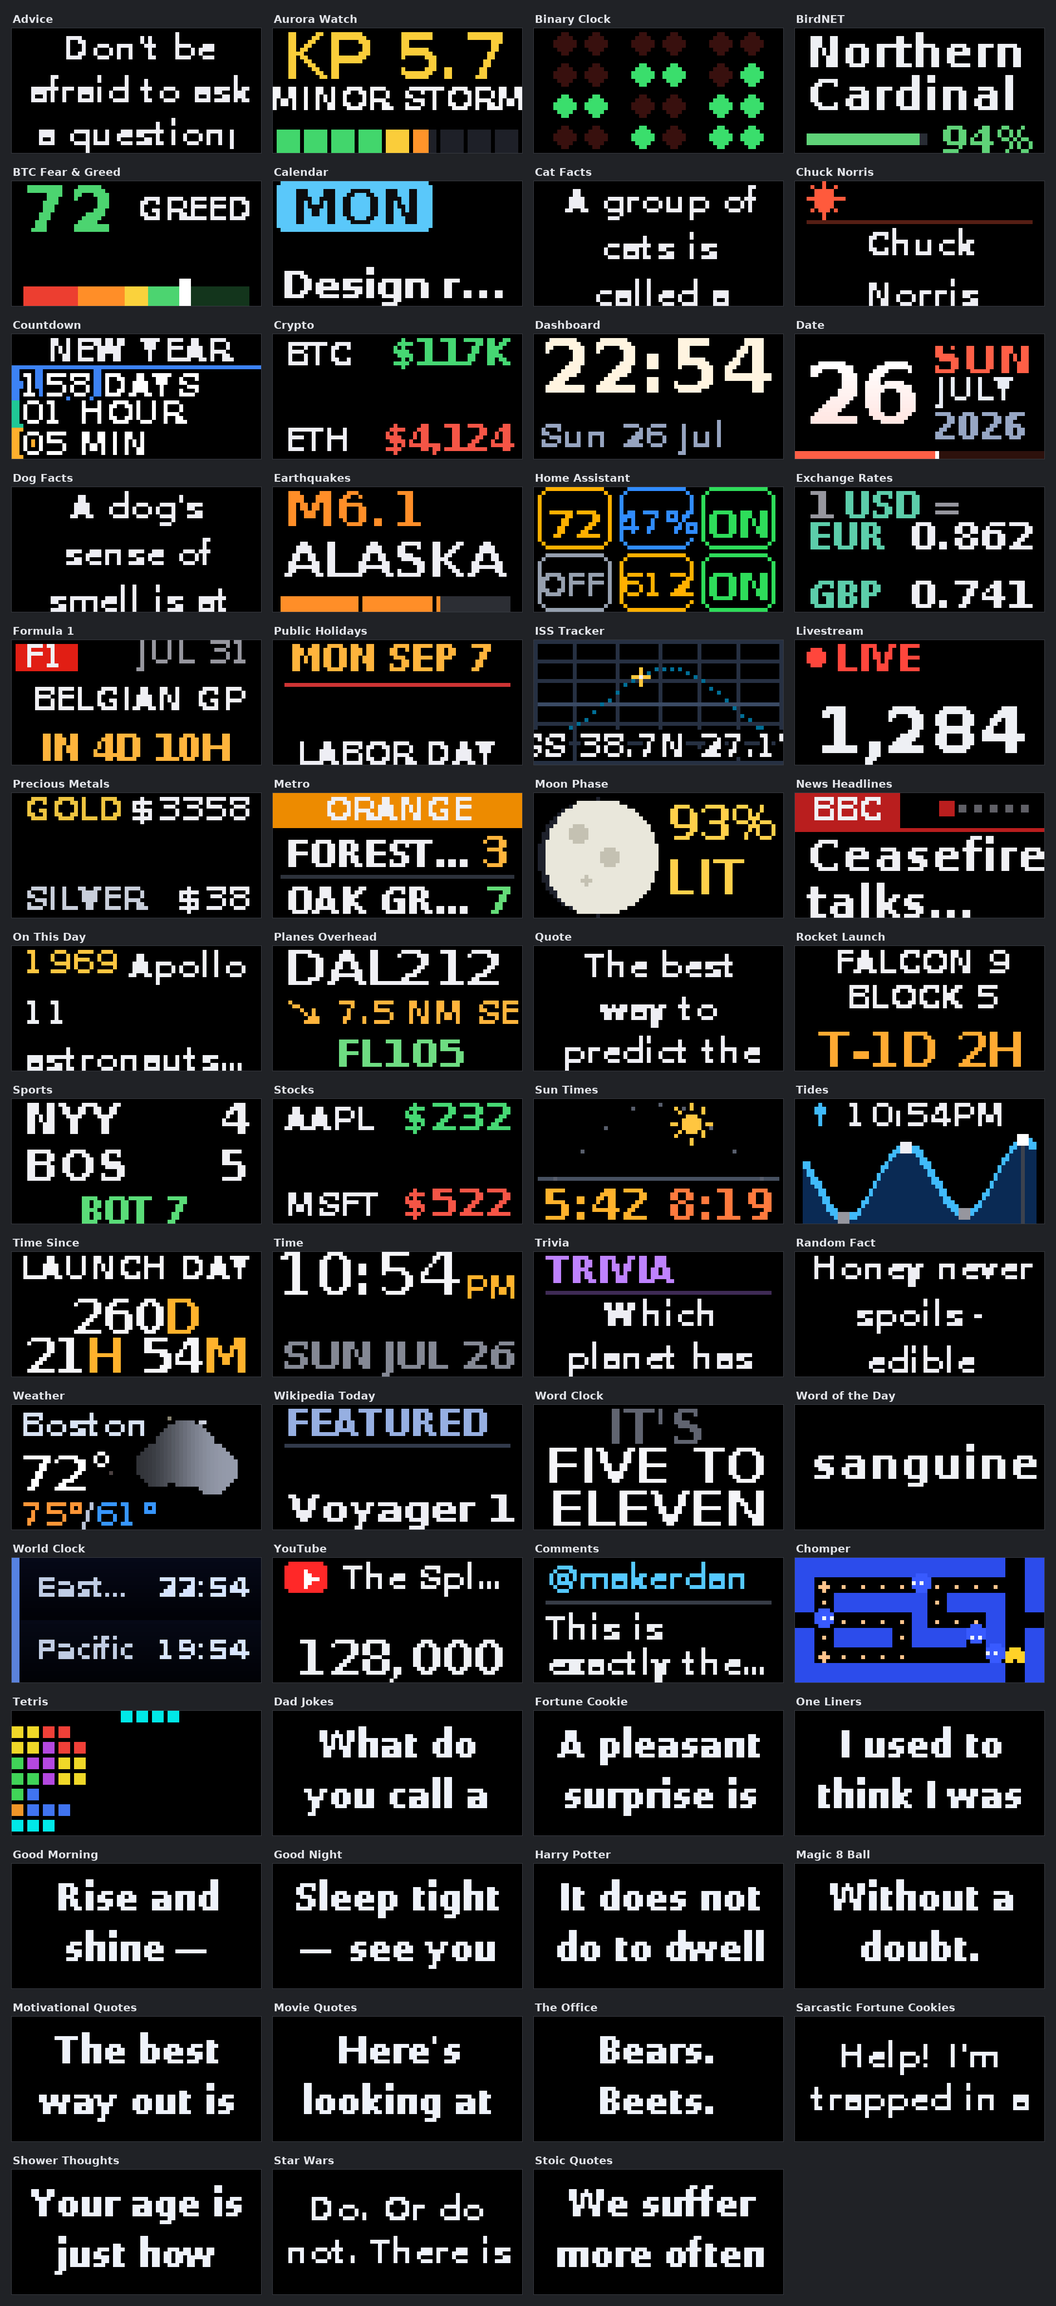
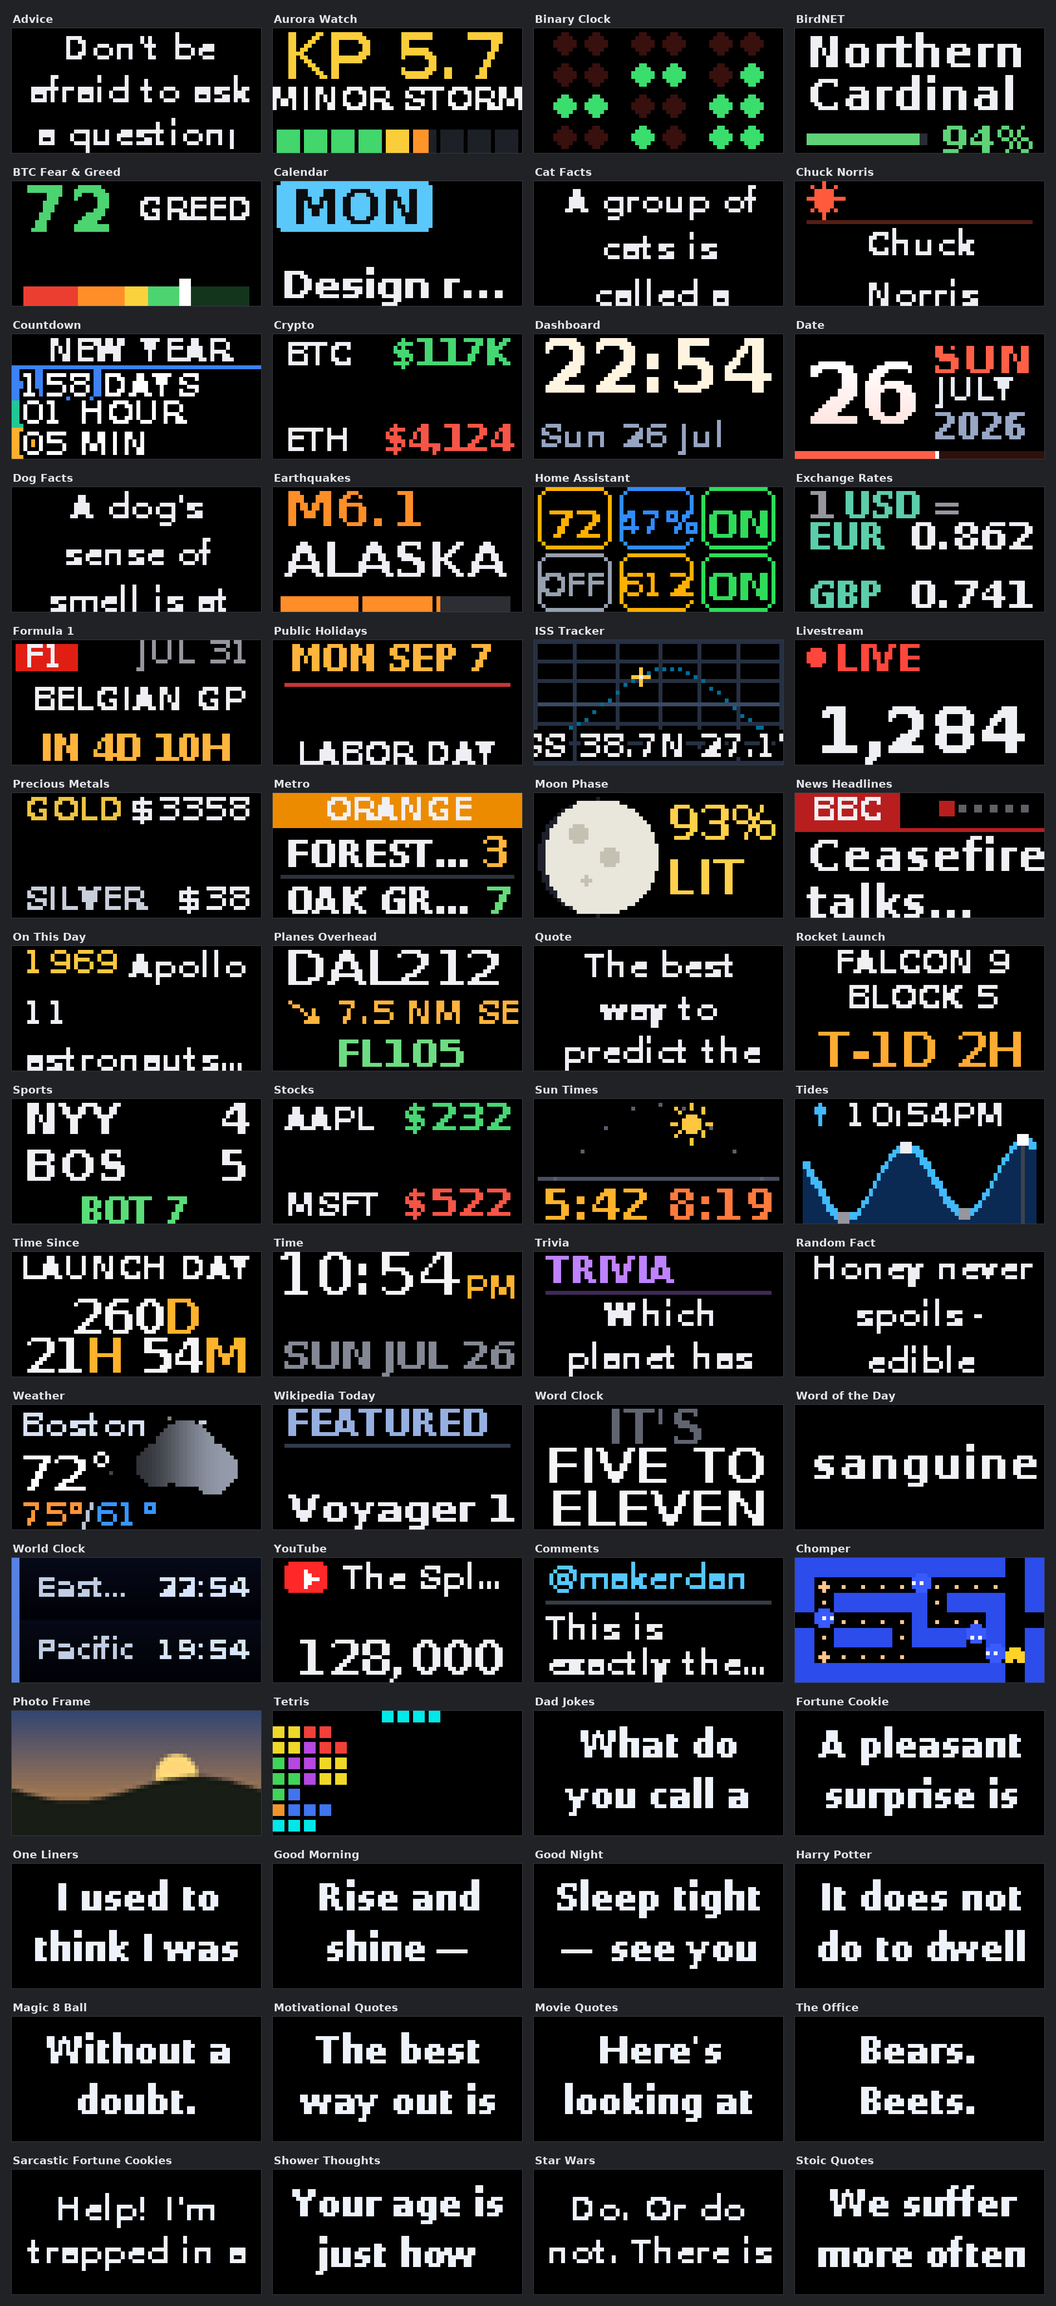
2.10.7-beta.5 — firmware 3.10/3.11 pass: Photo Frame on the microSD, new effects
- device/canvas: the fw-3.10 'sd' feature token -> caps.can_sd; canvas.sd_list
  (one directory level, [] without a card) and canvas.sd_get (raw file bytes),
  thin capability-gated reads through the pooled gateway client
- new app sd-photos (Photo Frame): rotates the card's images on the panel —
  EXIF-rotated, cover (center-crop) or letterbox onto a dim blurred echo of the
  photo, optional shuffle, LRU-decoded, listing refreshed ~per 2 min so new
  drops join live; friendly cards for no-card/no-photos/undecodable. Matrix-
  only, frame-push (streams on 3.2+ walls)
- plugin_effects: icons for the 3.10 effects (Oscilloscope, Beat Ripples,
  Maze) — names + knobs already arrive via effectDefs
- depth-4 PSRAM framebuffer (3.11): nothing to gate — smoother gradients for
  free; 3.9 transform/layers/macros deliberately skipped (JSON-only, would
  knock apps off the binary stream)
- harness: Cap serves two synthetic sample photos so the gallery shows the
  slideshow; tests: test_sd_photos.py (8 — token parse, gated helpers,
  rotation+cache, letterbox backdrop, hint cards, catalog); i18n labels
  translated (fr/de/es). Suite 4526 passed.

Changed region(s): [[0.0, 0.7142, 0.4636, 0.9937], [0.7417, 0.7452, 0.9889, 1.0], [0.5254, 0.7452, 0.7417, 0.9937]]

diff --git a/backend/tests/test_sd_photos.py b/backend/tests/test_sd_photos.py
@@ -1,0 +1,139 @@
+"""The microSD surface (fw 3.10 ``sd`` feature) and the Photo Frame app built on it.
+
+``canvas.sd_list``/``sd_get`` are thin, capability-gated reads of the card; the app
+turns them into a slideshow — advance per dwell, LRU-decode, cover/letterbox layout,
+and friendly cards when there is no card / no photos.
+"""
+
+import io
+
+from conftest import canvas_surface, load_app
+from test_canvas_ops35 import OPS35
+from app import device
+
+
+def _jpeg(w=40, h=30, color=(200, 120, 40)):
+    from PIL import Image
+    buf = io.BytesIO()
+    Image.new("RGB", (w, h), color).save(buf, "JPEG")
+    return buf.getvalue()
+
+
+def _cv(sd=True):
+    return canvas_surface("http://gw", 128, 64, ("rgb888",), (), ops=OPS35, sd=sd)
+
+
+def test_sd_capability_parses_from_the_feature_token():
+    doc = {"features": ["canvas", "sd"], "charset": {"common": "A"},
+           "canvas": {"width": 64, "height": 32}}
+    assert device.from_capabilities(doc).can_sd
+    doc["features"] = ["canvas"]                       # token absent = no card mounted
+    assert not device.from_capabilities(doc).can_sd
+
+
+def test_sd_helpers_are_gated_and_wrap_the_rest_api(monkeypatch):
+    import app.gateway as gateway
+
+    calls = []
+
+    class _R:
+        status_code = 200
+        content = b"bytes!"
+
+        def json(self):
+            return [{"name": "a.jpg", "dir": False, "size": 3}]
+
+    monkeypatch.setattr(gateway, "_request",
+                        lambda m, u, p, **kw: (calls.append((m, p, kw.get("params"))) or _R()))
+    cv = _cv(sd=True)
+    assert cv.sd_list("/photos") == [{"name": "a.jpg", "dir": False, "size": 3}]
+    assert cv.sd_get("/photos/a.jpg") == b"bytes!"
+    assert calls == [("GET", "/api/sd/list", {"path": "/photos"}),
+                     ("GET", "/api/sd/get", {"path": "/photos/a.jpg"})]
+    # without the card the helpers answer empty without touching the wire
+    calls.clear()
+    off = _cv(sd=False)
+    assert off.sd_list("/") == [] and off.sd_get("/x") is None and not calls
+
+
+class _Frames:
+    """Wrap a surface: capture frame() images instead of sending them."""
+
+    def __init__(self, cv):
+        self._cv = cv
+        self.frames = []
+
+    def __getattr__(self, name):
+        return getattr(self._cv, name)
+
+    def frame(self, img):
+        self.frames.append(img)
+        return True
+
+
+def _sd_stub(cv, files):
+    cv.sd_list = lambda path="/": ([{"name": n, "dir": False, "size": len(b)}
+                                    for n, b in files.items()]
+                                   if path.rstrip("/") == "/photos" else [])
+    cv.sd_get = lambda path: files.get(path.rsplit("/", 1)[-1])
+    return cv
+
+
+def test_photo_frame_rotates_and_caches(monkeypatch):
+    app = load_app("sd-photos")
+    files = {"a.jpg": _jpeg(color=(200, 40, 40)), "b.jpg": _jpeg(color=(40, 200, 40))}
+    gets = []
+    cv = _Frames(_sd_stub(_cv(), files))
+    real_get = cv.sd_get
+    cv.sd_get = lambda p: (gets.append(p) or real_get(p))
+
+    hold = app.fetch_matrix({"dwell": "5"}, cv)
+    assert hold == 5 and len(cv.frames) == 1
+    assert cv.frames[0].size == (128, 64)              # cover: panel-sized
+    app.fetch_matrix({"dwell": "5"}, cv)               # advances to the other photo
+    app.fetch_matrix({"dwell": "5"}, cv)               # wraps — cache hit, no re-download
+    assert [p.rsplit("/", 1)[-1] for p in gets] == ["a.jpg", "b.jpg"]
+
+
+def test_photo_frame_letterboxes_a_portrait_onto_a_backdrop():
+    app = load_app("sd-photos")
+    files = {"tall.jpg": _jpeg(w=20, h=60, color=(250, 250, 250))}
+    cv = _Frames(_sd_stub(_cv(), files))
+    app.fetch_matrix({"fit": "contain"}, cv)
+    img = cv.frames[0]
+    assert img.size == (128, 64)
+    # the letterboxed sides carry the dim backdrop, not pure black bars
+    left = img.getpixel((2, 32))
+    center = img.getpixel((64, 32))
+    assert sum(center) > 500                           # the photo itself is bright
+    assert 0 < sum(left) < sum(center)                 # the echo is there, but dim
+
+
+def test_photo_frame_without_a_card_hints_instead_of_failing():
+    app = load_app("sd-photos")
+    cv = _Frames(_cv(sd=False))
+    hold = app.fetch_matrix({}, cv)
+    assert hold == 30 and len(cv.frames) == 1          # the hint card, on a slow tick
+
+
+def test_photo_frame_with_an_empty_folder_hints():
+    app = load_app("sd-photos")
+    cv = _Frames(_sd_stub(_cv(), {}))
+    cv.sd_list = lambda path="/": []                   # card mounted, nothing on it
+    hold = app.fetch_matrix({}, cv)
+    assert hold == 30 and len(cv.frames) == 1
+
+
+def test_photo_frame_skips_an_undecodable_file():
+    app = load_app("sd-photos")
+    files = {"broken.jpg": b"not a jpeg", "ok.jpg": _jpeg()}
+    cv = _Frames(_sd_stub(_cv(), files))
+    hold = app.fetch_matrix({"dwell": "7"}, cv)
+    assert hold == 7 and cv.frames[0].size == (128, 64)   # landed on the good one
+
+
+def test_photo_frame_is_matrix_only_in_the_catalog():
+    from conftest import make_runtime
+    rt = make_runtime(installed=["sd-photos"])
+    card = next(a for a in rt.app_list() if a["id"] == "sd-photos")
+    assert card["surfaces"] == ["matrix"]

diff --git a/apps/sd-photos/app.py b/apps/sd-photos/app.py
@@ -1,0 +1,99 @@
+"""Photo Frame — a slideshow of the microSD card's photos on the Matrix panel.
+
+The first app built on the gateway's fw-3.10 microSD support: the gateway's own Files
+tab manages the card; this gives it a *display* use. Each dwell the app advances to the
+next image in the configured folder (``canvas.sd_list``), pulls its bytes off the card
+(``canvas.sd_get``), and frame-pushes it — EXIF-rotated, resized to fill (center-crop)
+or letterbox onto a dim blurred backdrop. Decoded frames are LRU-cached so a small
+carousel re-downloads nothing; the folder listing refreshes about once a minute so
+newly dropped photos join the rotation without a restart. Without a card (or with an
+empty folder) it shows a friendly hint card instead. Matrix-only — flaps can't show a
+photo.
+"""
+
+import io
+import random
+
+_EXTS = ('.jpg', '.jpeg', '.png', '.gif', '.bmp', '.webp')
+_LIST_TTL = 12          # frames between folder re-lists (~2 min at the 10 s default dwell)
+_CACHE_MAX = 8          # decoded frames kept, LRU
+
+
+def _images_in(canvas, folder):
+    """The image files in ``folder`` (falling back to the card root), sorted by name."""
+    for path in (folder, '/'):
+        rows = canvas.sd_list(path)
+        names = sorted(str(r.get('name', '')) for r in rows
+                       if not r.get('dir') and str(r.get('name', '')).lower().endswith(_EXTS))
+        if names:
+            base = path.rstrip('/')
+            return [f"{base}/{n}" for n in names]
+        if path == folder and any(True for _ in rows):
+            return []                          # the folder exists but holds no images
+    return []
+
+
+def _render(canvas, raw, fit):
+    """Decode + lay out one photo as a panel-sized PIL image (None if undecodable)."""
+    from PIL import Image, ImageFilter, ImageOps
+    W, H = canvas.width, canvas.height
+    try:
+        img = Image.open(io.BytesIO(raw))
+        img = ImageOps.exif_transpose(img).convert('RGB')   # phones store rotation in EXIF
+    except Exception:
+        return None
+    if fit == 'contain':
+        # Letterbox on a dim, blurred stretch of the photo itself — black bars read as
+        # dead panel; a soft echo of the image reads as a frame.
+        back = img.resize((W, H)).filter(ImageFilter.GaussianBlur(6)).point(lambda v: v // 3)
+        fg = ImageOps.contain(img, (W, H))
+        back.paste(fg, ((W - fg.width) // 2, (H - fg.height) // 2))
+        return back
+    return ImageOps.fit(img, (W, H))           # cover: fill the panel, center-cropped
+
+
+def fetch_matrix(settings, canvas):
+    dwell = canvas.num(settings, 'dwell', 10, 3, 300)
+    if not getattr(canvas, 'can_sd', False):
+        canvas.frame(canvas.message('PHOTO FRAME', 'No microSD card on this wall'))
+        return 30
+    folder = '/' + str(settings.get('folder', '/photos') or '/photos').strip().strip('/')
+    fit = str(settings.get('fit', 'cover') or 'cover').strip().lower()
+    shuffle = str(settings.get('shuffle', 'no')).strip().lower() in ('1', 'true', 'yes', 'on')
+
+    st = getattr(fetch_matrix, '_state', None)
+    if st is None or st.get('sig') != (canvas.width, canvas.height, folder, shuffle):
+        st = {'sig': (canvas.width, canvas.height, folder, shuffle),
+              'paths': [], 'age': _LIST_TTL, 'i': -1, 'cache': {}}
+        setattr(fetch_matrix, '_state', st)
+
+    st['age'] += 1
+    if st['age'] >= _LIST_TTL:                 # refresh the listing; keep our place on no change
+        st['age'] = 0
+        paths = _images_in(canvas, folder)
+        if shuffle:
+            random.Random(len(paths) * 1009 + sum(map(len, paths))).shuffle(paths)
+        if paths != st['paths']:
+            st['paths'], st['i'] = paths, -1
+    if not st['paths']:
+        canvas.frame(canvas.message('PHOTO FRAME', f'No photos in {folder} — use the'
+                                                   ' gateway Files tab to add some'))
+        return 30
+
+    # Advance; skip anything that vanished or won't decode (up to one full lap).
+    for _ in range(len(st['paths'])):
+        st['i'] = (st['i'] + 1) % len(st['paths'])
+        path = st['paths'][st['i']]
+        key = (path, fit)
+        img = st['cache'].pop(key, None)       # pop+reinsert = LRU touch
+        if img is None:
+            raw = canvas.sd_get(path)
+            img = _render(canvas, raw, fit) if raw else None
+        if img is not None:
+            st['cache'][key] = img
+            while len(st['cache']) > _CACHE_MAX:
+                st['cache'].pop(next(iter(st['cache'])))
+            canvas.frame(img)
+            return dwell
+    canvas.frame(canvas.message('PHOTO FRAME', 'No readable photos on the card'))
+    return 30

diff --git a/backend/app/canvas.py b/backend/app/canvas.py
@@ -808,6 +808,31 @@ def play_sound(url: str, notes=None, freq=None, ms: int = 120, vol: int = 70) ->
     return True
 
 
+def sd_list(url: str, path: str = "/", timeout: float = 8.0) -> list:
+    """One directory level of the wall's microSD card (fw 3.10 ``sd`` feature):
+    ``[{"name", "dir", "size"}, ...]``, or ``[]`` on any failure (no card, bad path,
+    unreachable). Read-only and safe to poll gently — the card is the gateway's."""
+    try:
+        r = gateway._request("GET", url, "/api/sd/list", params={"path": path or "/"},
+                             timeout=timeout)
+        return r.json() if r.status_code == 200 else []
+    except Exception as e:
+        log.debug("canvas sd_list(%s) failed: %s", path, e)
+        return []
+
+
+def sd_get(url: str, path: str, timeout: float = 20.0) -> bytes | None:
+    """A file's raw bytes off the wall's microSD card, or None. The generous timeout is
+    for multi-MB photos over the ESP32's HTTP server."""
+    try:
+        r = gateway._request("GET", url, "/api/sd/get", params={"path": path},
+                             timeout=timeout)
+        return r.content if r.status_code == 200 else None
+    except Exception as e:
+        log.debug("canvas sd_get(%s) failed: %s", path, e)
+        return None
+
+
 def post_ops_bin(url: str, data: bytes, timeout: float = 8.0) -> bool:
     """Apply a binary op batch (POST /api/canvas/opsb, fw 3.5)."""
     try:
@@ -871,6 +896,7 @@ class CanvasSurface(paneltext.PanelText):
         self.can_text_styles = "textbox" in self.op_names
         self.can_ops_bin = int(caps.canvas_ops_bin or 0) >= 1
         self.can_composite = bool(caps.canvas_composite)   # fw 3.8+: alpha, blend modes, AA
+        self.can_sd = bool(caps.can_sd)                    # fw 3.10+: a microSD card is mounted
         # 1.19 / 1.25 / 2.1. `can_ops` is "any draw ops at all" (the vocabulary itself is
         # op_names above, consulted via has_op()). The 2.1 endpoint families aren't flagged
         # one by one, so they all gate on the firmware version (caps.canvas_2_1).
@@ -1055,6 +1081,14 @@ class CanvasSurface(paneltext.PanelText):
     def has_op(self, name) -> bool:
         """Whether this wall's ops vocabulary includes ``name`` (capabilities canvas.ops)."""
         return str(name) in self.op_names
+
+    def sd_list(self, path: str = "/") -> list:
+        """This wall's microSD directory listing (``[]`` without a card) — see module sd_list."""
+        return sd_list(self.url, path) if self.can_sd else []
+
+    def sd_get(self, path: str) -> bytes | None:
+        """A file's bytes off this wall's microSD card (None without a card)."""
+        return sd_get(self.url, path) if self.can_sd else None
 
     @staticmethod
     def num(settings, key, default, lo=None, hi=None):

diff --git a/tools/screenshot-harness.py b/tools/screenshot-harness.py
@@ -47,6 +47,7 @@ APP_IDS = [
     'useless-fact', 'weather', 'wiki-today', 'word-clock', 'word-of-the-day',
     'world_clock', 'youtube', 'yt_comments',
     'canvas-chomper',                    # matrix-only: the ops-surface arcade
+    'sd-photos',                         # matrix-only: the microSD slideshow
 ]
 
 # Channels/quizzes render generically on the panel (big text + themed art) via
@@ -135,6 +136,43 @@ class Cap:
     _OPS35 = ('clear', 'pixel', 'hline', 'vline', 'line', 'rect', 'circle', 'ellipse',
               'triangle', 'roundrect', 'gradient', 'polyline', 'poly', 'arc', 'clip',
               'origin', 'text', 'textbox', 'image', 'sprite', 'scroll', 'show')
+
+
+    # -- microSD (fw 3.10): a fake card with two synthetic sample photos ------
+    can_sd = True
+    _SD_PHOTOS = {}
+
+    @classmethod
+    def _sd_photo(cls, name):
+        if name not in cls._SD_PHOTOS:
+            import io as _io
+            import math as _math
+            w, h = 320, 200
+            img = Image.new('RGB', (w, h))
+            px = img.load()
+            warm = 'sunset' in name
+            for y in range(h):
+                t = y / h
+                sky = ((int(30 + 200 * t), int(60 + 90 * t), int(120 - 60 * t)) if warm
+                       else (int(20 + 60 * t), int(90 + 120 * t), int(150 + 80 * t)))
+                for x in range(w):
+                    px[x, y] = sky
+            d = ImageDraw.Draw(img)
+            if warm:
+                d.ellipse([w * 0.58, h * 0.38, w * 0.58 + 52, h * 0.38 + 52], fill=(255, 214, 120))
+            ridge = [(x, h * 0.60 + 16 * _math.sin(x * 0.02 + (0 if warm else 2)))
+                     for x in range(0, w + 8, 8)]
+            d.polygon(ridge + [(w, h), (0, h)], fill=(24, 30, 22) if warm else (16, 24, 34))
+            buf = _io.BytesIO()
+            img.save(buf, 'JPEG', quality=88)
+            cls._SD_PHOTOS[name] = buf.getvalue()
+        return cls._SD_PHOTOS[name]
+
+    def sd_list(self, path='/'):
+        return [{'name': n, 'dir': False, 'size': 1} for n in ('01-sunset.jpg', '02-lake.jpg')]
+
+    def sd_get(self, path):
+        return self._sd_photo(path.rsplit('/', 1)[-1])
 
     def has_op(self, name):
         return name in self._OPS35

diff --git a/backend/app/device.py b/backend/app/device.py
@@ -121,6 +121,7 @@ class Capabilities:
     events: bool = False                    # GET /api/events — the gateway's own SSE display stream
                                             # (parsed for completeness; no companion consumer yet)
     can_sound: bool = False                 # POST /api/sound — on-device tone synthesis (fw 3.6 "sound")
+    can_sd: bool = False                    # /api/sd/* — a microSD card is mounted (fw 3.10 "sd")
 
     def __bool__(self) -> bool:
         return self.indexed
@@ -304,6 +305,7 @@ def from_capabilities(doc: dict | None) -> Capabilities | None:
         canvas_rects=bool(canvas.get("rects")),
         canvas_stream=bool(canvas.get("stream")),
         can_sound="sound" in features,
+        can_sd="sd" in features,
         events="events" in features,
     )
 

diff --git a/backend/tests/conftest.py b/backend/tests/conftest.py
@@ -257,7 +257,8 @@ def _no_outbound_network(request, monkeypatch):
 _CANVAS_FLAG_TO_FIELD = {
     "rect": "canvas_rect", "rects": "canvas_rects", "anim": "canvas_anim",
     "ticker": "canvas_ticker", "readback": "canvas_readback", "stream": "canvas_stream",
-    "ops": "canvas_ops", "ops_bin": "canvas_ops_bin", "composite": "canvas_composite", "effect_params": "effect_params",
+    "ops": "canvas_ops", "ops_bin": "canvas_ops_bin", "composite": "canvas_composite",
+    "effect_params": "effect_params", "sd": "can_sd",
 }
 
 

diff --git a/backend/app/plugin_effects.py b/backend/app/plugin_effects.py
@@ -20,6 +20,7 @@ EFFECT_META = {
     "fliporama": ("Flip-o-rama", "🎞"), "clock": ("Panel Clock", "🕛"),
     "life": ("Game of Life", "🦠"), "rainbow": ("Rainbow", "🌈"),
     "spectrum": ("Spectrum", "🎚"), "soundwall": ("Soundwall", "🔊"),
+    "maze": ("Maze", "🌀"), "ripple": ("Beat Ripples", "🌊"), "scope": ("Oscilloscope", "📈"),
 }
 
 # The knob fields the effects template declares; replaced wholesale when the wall

diff --git a/addon-beta/CHANGELOG.md b/addon-beta/CHANGELOG.md
@@ -3,6 +3,14 @@
 Home Assistant shows this when an update is available. Newest first; the version headings
 have to match the add-on's `version`, or the update notice comes up blank.
 
+## 2.10.7-beta.5
+
+- **New app: Photo Frame** 🖼 — a slideshow of the photos on the gateway's microSD card
+  (firmware 3.10+). Drop images on the card from the gateway's Files tab; fill or
+  letterbox, optional shuffle.
+- **New effects surfaced** — Oscilloscope 📈, Beat Ripples 🌊 and Maze get their icons
+  (firmware 3.10 adds the effects; their knobs appear automatically).
+
 ## 2.10.7-beta.4
 
 - **Smooth aquarium** 🐠 — the Aquarium (and any sprite/compositing app) now streams
